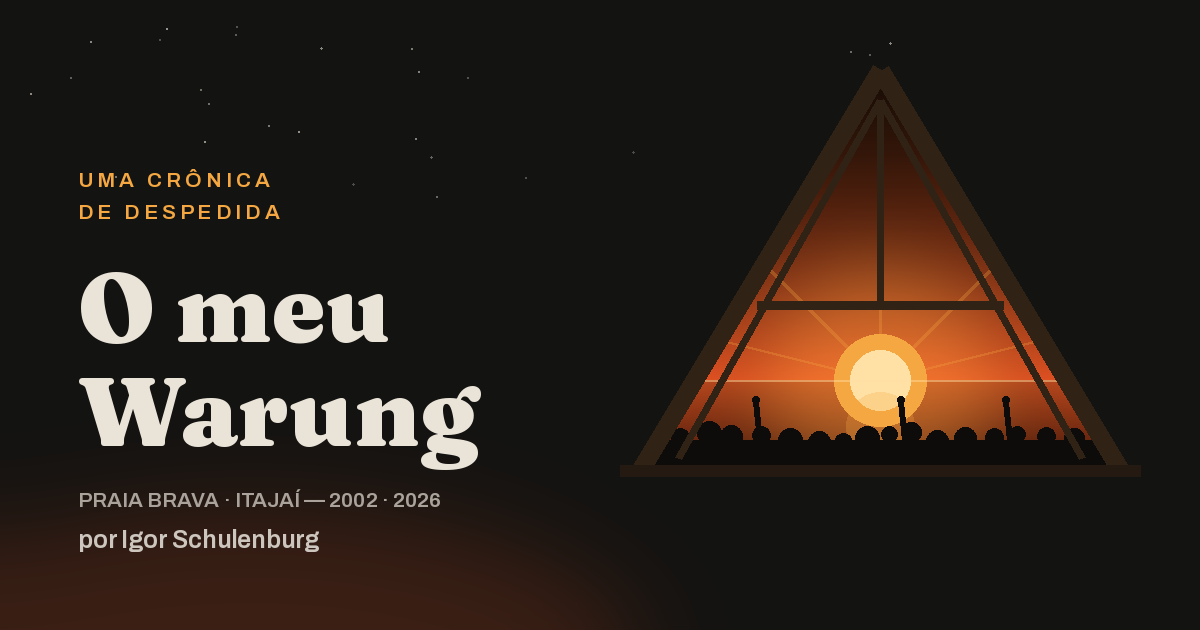
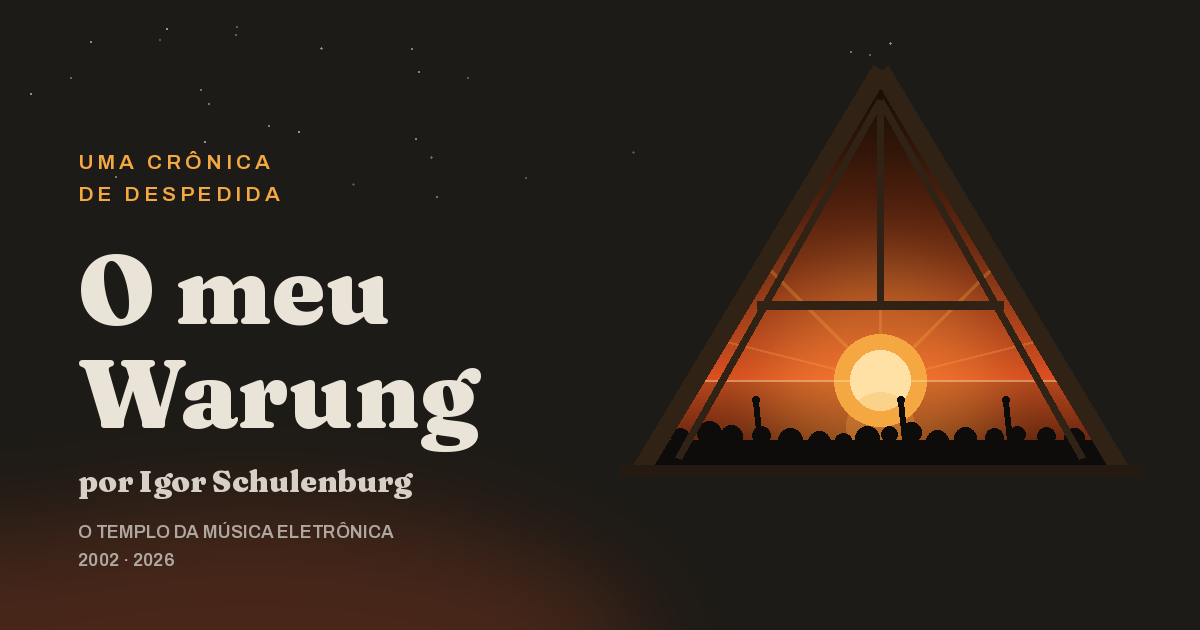
Add files via upload

Changed region(s): [[0.0617, 0.573, 0.4008, 0.9048], [0.0617, 0.3921, 0.3392, 0.5429], [0.0617, 0.2413, 0.2467, 0.3619]]

diff --git a/index.html b/index.html
@@ -12,8 +12,8 @@
 <meta property="og:type" content="article">
 <meta property="og:title" content="O meu Warung">
 <meta property="og:description" content="O Warung Beach Club fechou no sábado, dia 6 de junho. O meu Warung, não. Uma crônica de despedida.">
-<meta property="og:image" content="https://SEU-SITE.netlify.app/og-image.png">
-<meta property="og:url" content="https://SEU-SITE.netlify.app/">
+<meta property="og:image" content="https://meuwarung.netlify.app/og-image.png">
+<meta property="og:url" content="https://meuwarung.netlify.app/">
 <meta property="og:locale" content="pt_BR">
 <meta name="twitter:card" content="summary_large_image">
 
@@ -151,12 +151,20 @@ h1 em{
   background:linear-gradient(100deg,var(--ambar),var(--laranja));
   -webkit-background-clip:text;background-clip:text;color:transparent;
 }
+.byline{
+  font-family:'Fraunces',Georgia,serif;
+  font-style:italic;
+  font-size:clamp(1.05rem,2.4vw,1.3rem);
+  color:rgba(234,227,216,.85);
+  margin-bottom:1rem;
+  opacity:0;animation:surgir 1.4s ease 1.8s forwards;
+}
 .contexto{
   font-family:'Archivo',sans-serif;
   font-size:.82rem;font-weight:500;
   letter-spacing:.18em;text-transform:uppercase;
   color:var(--cinza);
-  opacity:0;animation:surgir 1.4s ease 1.9s forwards;
+  opacity:0;animation:surgir 1.4s ease 2.1s forwards;
 }
 .contexto .sep{color:var(--laranja);margin:0 .6em}
 
@@ -341,12 +349,19 @@ footer{
   font-size:.72rem;letter-spacing:.22em;text-transform:uppercase;
   color:rgba(155,148,143,.6);
 }
+.aviso{
+  font-family:'Newsreader',Georgia,serif;
+  font-style:italic;
+  font-size:.92rem;
+  color:rgba(234,227,216,.6);
+  margin-top:1rem;
+}
 
 /* acessibilidade */
 :focus-visible{outline:2px solid var(--ambar);outline-offset:3px}
 @media (prefers-reduced-motion:reduce){
   *,*::before,*::after{animation:none!important;transition:none!important}
-  .templo-cena,.eyebrow,h1,.contexto,.indicador{opacity:1}
+  .templo-cena,.eyebrow,h1,.byline,.contexto,.indicador{opacity:1}
   article p,.autor-foto,.autor-info{opacity:1;transform:none}
 }
 </style>
@@ -458,7 +473,8 @@ footer{
     <div class="titulo-bloco">
       <p class="eyebrow">Uma crônica de despedida</p>
       <h1>O <em>meu</em> Warung</h1>
-      <p class="contexto">Praia Brava · Itajaí <span class="sep">—</span> 2002 · 2026</p>
+      <p class="byline">por Igor Schulenburg</p>
+      <p class="contexto">Warung Beach Club · O Templo da Música Eletrônica <span class="sep">—</span> 2002 · 2026</p>
       <div class="indicador" aria-hidden="true"></div>
     </div>
   </header>
@@ -523,6 +539,7 @@ footer{
     <span></span><span></span><span></span><span></span><span></span>
   </div>
   <p class="memoria">Em memória do Templo · Praia Brava · 2002–2026</p>
+  <p class="aviso">Crônica de Igor Schulenburg. Se for reproduzir, seja honesto: cite de onde.</p>
 </footer>
 
 <script>